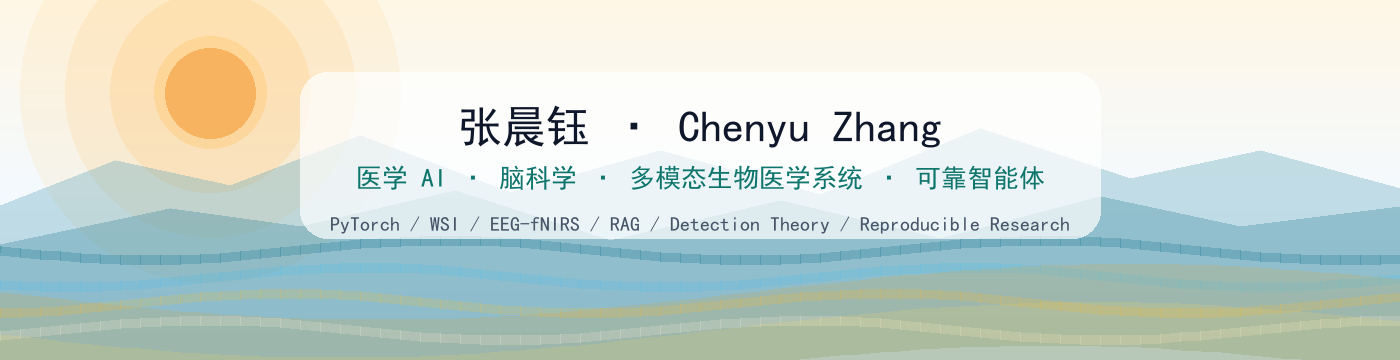
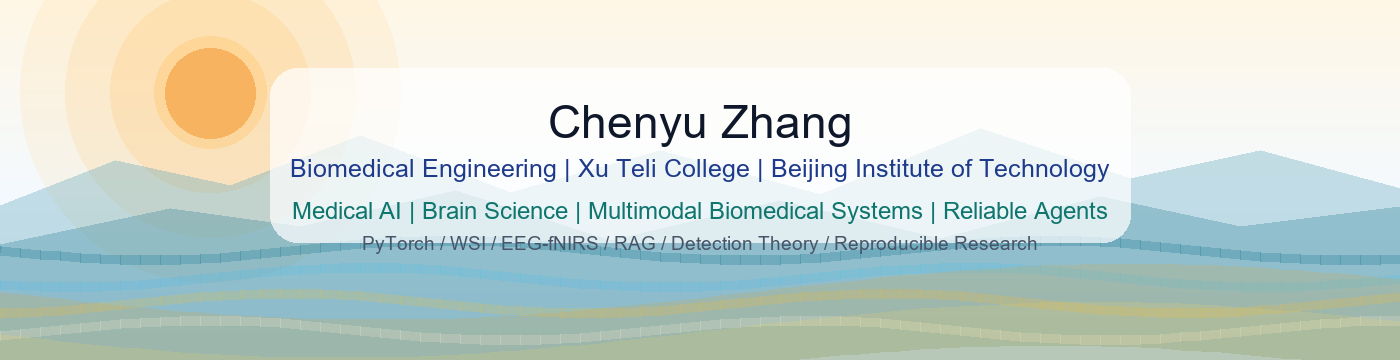
Add English and Chinese profile versions

Changed region(s): [[0.1843, 0.1833, 0.8293, 0.7028]]

diff --git a/README.md b/README.md
@@ -1,8 +1,8 @@
-<p align="right">张晨钰的 README.md /</p>
+<p align="right">Chenyu Zhang's README.md / 中文版本在下方</p>
 
-<h1 align="center">你好，我是张晨钰 👋</h1>
+<h1 align="center">Hi, I'm Chenyu Zhang 👋</h1>
 
-<h3 align="center">医学 AI | 脑科学 | 多模态生物医学系统 | 可靠智能体</h3>
+<h3 align="center">Medical AI | Brain Science | Multimodal Biomedical Systems | Reliable Agents</h3>
 
 <p align="center">
   <a href="https://github.com/QUSETIONS?tab=followers">
@@ -17,62 +17,62 @@
 </p>
 
 <p align="center">
-  <img src="./assets/profile-banner.png" alt="医学 AI、脑科学与生物医学智能体" width="100%" />
+  <img src="./assets/profile-banner.png" alt="Medical AI, brain science, and biomedical agents" width="100%" />
 </p>
 
 ---
 
-## 🧑💻 关于我
+## About Me
 
-你好，我是**张晨钰**，北京理工大学特立书院**生物医学工程**本科生。
+I am **Chenyu Zhang**, an undergraduate student in **Biomedical Engineering** at **Xu Teli College, Beijing Institute of Technology**.
 
-我的研究兴趣聚焦于**基于数学与物理原理的 AI4Science 与医学 AI**，重点关注 **AI + 脑科学**、**AI + 医疗**、多模态医学表征学习、可靠 AI 系统、脑/生物医学信号建模和 healthcare agents。
+My interests lie in **AI4Science and medical AI grounded in mathematical and physical principles**, especially **AI + brain science**, **AI + medicine**, multimodal biomedical representation learning, reliable AI systems, brain/biomedical signal modeling, and healthcare agents.
 
-我希望把大模型的表示与决策能力、检测理论分析，以及脑启发记忆/可塑性机制结合起来，构建更高效、更可解释、更能持续适应真实医学场景的智能系统。
+I hope to connect large-model representation and decision-making with detection-theoretic analysis and brain-inspired memory/plasticity mechanisms, toward AI systems that are more interpretable, reproducible, and useful in real biomedical settings.
 
 ---
 
-## 🔬 我正在关注
+## Current Focus
 
-| 方向 | 我关心的问题 |
+| Area | Questions I Care About |
 | --- | --- |
-| 医学影像 AI | 少标注胎儿心脏超声、病理 WSI、3T-to-7T 脑影像生成与临床相关评估 |
-| 脑与生物医学信号 | EEG-fNIRS、多模态融合、时序建模、小样本与噪声标签 |
-| 可靠 AI 系统 | VLA runtime detection、稀疏表征分析、检测理论、可审计模型输出 |
-| Healthcare Agents | 医疗 RAG、tool calling、多智能体诊断、安全检查与可复现报告 |
-| AI 工程 | PyTorch、FastAPI、SQLite、本地 GUI、MCP、可复现实验管线 |
+| Medical Imaging AI | Fetal cardiac ultrasound, pathology WSI workflows, 3T-to-7T brain image generation, clinically meaningful evaluation |
+| Brain and Biomedical Signals | EEG-fNIRS, multimodal fusion, temporal modeling, small samples, noisy labels |
+| Reliable AI Systems | VLA runtime detection, sparse representation analysis, detection theory, auditable model outputs |
+| Healthcare Agents | Medical RAG, tool calling, multi-agent diagnosis, safety checks, reproducible reports |
+| AI Engineering | PyTorch, FastAPI, SQLite, local GUI workflows, MCP, reproducible experiment pipelines |
 
 ---
 
-## 🧰 精选项目
+## Selected Projects
 
-### MiniCode-Python - 终端 AI 编程助手
+### MiniCode-Python - Terminal AI Coding Assistant
 
-约 15,000 行 Python 代码的终端 AI assistant，内置 30+ 工具、上下文记忆、规划-执行-迭代循环和 MCP 集成。
+A Python-based terminal AI assistant with 30+ tools, context memory, planning-execution-iteration loops, and MCP integration.
 
 `Python` `MCP` `Git` `Shell` `Agent Memory` `Tool Calling`
 
-### NECIO System - 本地病理 WSI GUI 与 CellSAM 工作流
+### NECIO System - Local Pathology WSI GUI and CellSAM Workflow
 
-基于 CellSAM、OpenSlide 和 SQLite 构建本地病理切片分析工作流，支持 SVS / NDPI / TIFF，全流程覆盖切片标注、细胞核检测、特征提取、数据管理和 HTML 报告生成。
+A local pathology slide analysis workflow built with CellSAM, OpenSlide, and SQLite, supporting SVS / NDPI / TIFF files, slide labeling, nuclei detection, feature extraction, local data management, and HTML report generation.
 
 `Python` `TypeScript` `CellSAM` `OpenSlide` `WSI` `SQLite`
 
-### Healthy Agent for World - 医疗多智能体诊断系统
+### Healthy Agent for World - Medical Multi-Agent Diagnosis System
 
-设计分诊、诊断、安全三子代理架构，连接证据检索、置信度排序、tool calling、审计日志和可复现报告。
+A medical multi-agent prototype connecting triage, diagnosis, safety checks, evidence retrieval, confidence ranking, tool calling, audit logs, and reproducible reports.
 
 `FastAPI` `RAG` `LLM Agent` `Audit Log` `Medical AI`
 
-### 脑-体多模态疾病诊断
+### Brain-Body Multimodal Disease Diagnosis
 
-构建多模态生物医学数据处理与实验管线，覆盖清洗、时间窗切片、样本对齐、early / late / attention fusion 和不平衡样本处理。
+A reproducible biomedical data pipeline for cleaning, temporal windowing, sample alignment, early / late / attention-based fusion, and imbalanced-data handling.
 
 `PyTorch` `Multimodal Fusion` `Temporal Modeling` `Biomedical Signals`
 
 ---
 
-## 🛠 技术栈
+## Tech Stack
 
 <p>
   <img src="https://img.shields.io/badge/Python-3776AB?style=flat-square&logo=python&logoColor=white" />
@@ -85,13 +85,49 @@
   <img src="https://img.shields.io/badge/Git-F05032?style=flat-square&logo=git&logoColor=white" />
 </p>
 
-**医学与生物医学 AI：** 医学影像分析、WSI/病理切片工作流、OpenSlide、CellSAM、半监督学习、生成建模、模型评估  
-**类脑与多模态 AI：** EEG-fNIRS 分析、多模态融合、时序建模、VLA 运行时检测、稀疏表征分析  
-**LLM 与智能体系统：** RAG、tool calling、生物医学知识检索、智能体工作流、记忆系统  
-**科研流程：** 文献调研、基线复现、实验设计、benchmarking、消融分析、论文写作
+**Medical and Biomedical AI:** medical image analysis, WSI/pathology workflows, OpenSlide, CellSAM, semi-supervised learning, generative modeling, model evaluation  
+**Brain-Inspired and Multimodal AI:** EEG-fNIRS analysis, multimodal fusion, temporal modeling, VLA runtime detection, sparse representation analysis  
+**LLM and Agent Systems:** RAG, tool calling, biomedical knowledge retrieval, agent workflows, memory systems  
+**Research Workflow:** literature review, baseline reproduction, experiment design, benchmarking, ablation analysis, manuscript writing
+
+---
+
+## 中文版本
+
+### 关于我
+
+你好，我是**张晨钰**，北京理工大学**徐特立学院**生物医学工程本科生。
+
+我的研究兴趣聚焦于**基于数学与物理原理的 AI4Science 与医学 AI**，重点关注 **AI + 脑科学**、**AI + 医疗**、多模态医学表征学习、可靠 AI 系统、脑/生物医学信号建模和 healthcare agents。
+
+我希望把大模型的表示与决策能力、检测理论分析，以及脑启发记忆/可塑性机制结合起来，构建更高效、更可解释、更能持续适应真实医学场景的智能系统。
+
+### 我正在关注
+
+| 方向 | 我关心的问题 |
+| --- | --- |
+| 医学影像 AI | 少标注胎儿心脏超声、病理 WSI、3T-to-7T 脑影像生成与临床相关评估 |
+| 脑与生物医学信号 | EEG-fNIRS、多模态融合、时序建模、小样本与噪声标签 |
+| 可靠 AI 系统 | VLA runtime detection、稀疏表征分析、检测理论、可审计模型输出 |
+| Healthcare Agents | 医疗 RAG、tool calling、多智能体诊断、安全检查与可复现报告 |
+| AI 工程 | PyTorch、FastAPI、SQLite、本地 GUI、MCP、可复现实验管线 |
+
+### 精选项目
+
+**MiniCode-Python - 终端 AI 编程助手**  
+基于 Python 的终端 AI assistant，内置 30+ 工具、上下文记忆、规划-执行-迭代循环和 MCP 集成。
+
+**NECIO System - 本地病理 WSI GUI 与 CellSAM 工作流**  
+基于 CellSAM、OpenSlide 和 SQLite 构建本地病理切片分析工作流，支持 SVS / NDPI / TIFF，并覆盖切片标注、细胞核检测、特征提取、数据管理和 HTML 报告生成。
+
+**Healthy Agent for World - 医疗多智能体诊断系统**  
+连接分诊、诊断、安全检查、证据检索、置信度排序、tool calling、审计日志和可复现报告的医疗多智能体原型。
+
+**脑-体多模态疾病诊断**  
+构建多模态生物医学数据处理与实验管线，覆盖清洗、时间窗切片、样本对齐、early / late / attention fusion 和不平衡样本处理。
 
 ---
 
 <p align="center">
-  <b>目标：把可解释、可复现、可落地的 AI 系统带进真实医学与脑科学问题。</b>
+  <b>Building interpretable, reproducible, and workflow-ready AI systems for medicine and brain science.</b>
 </p>
